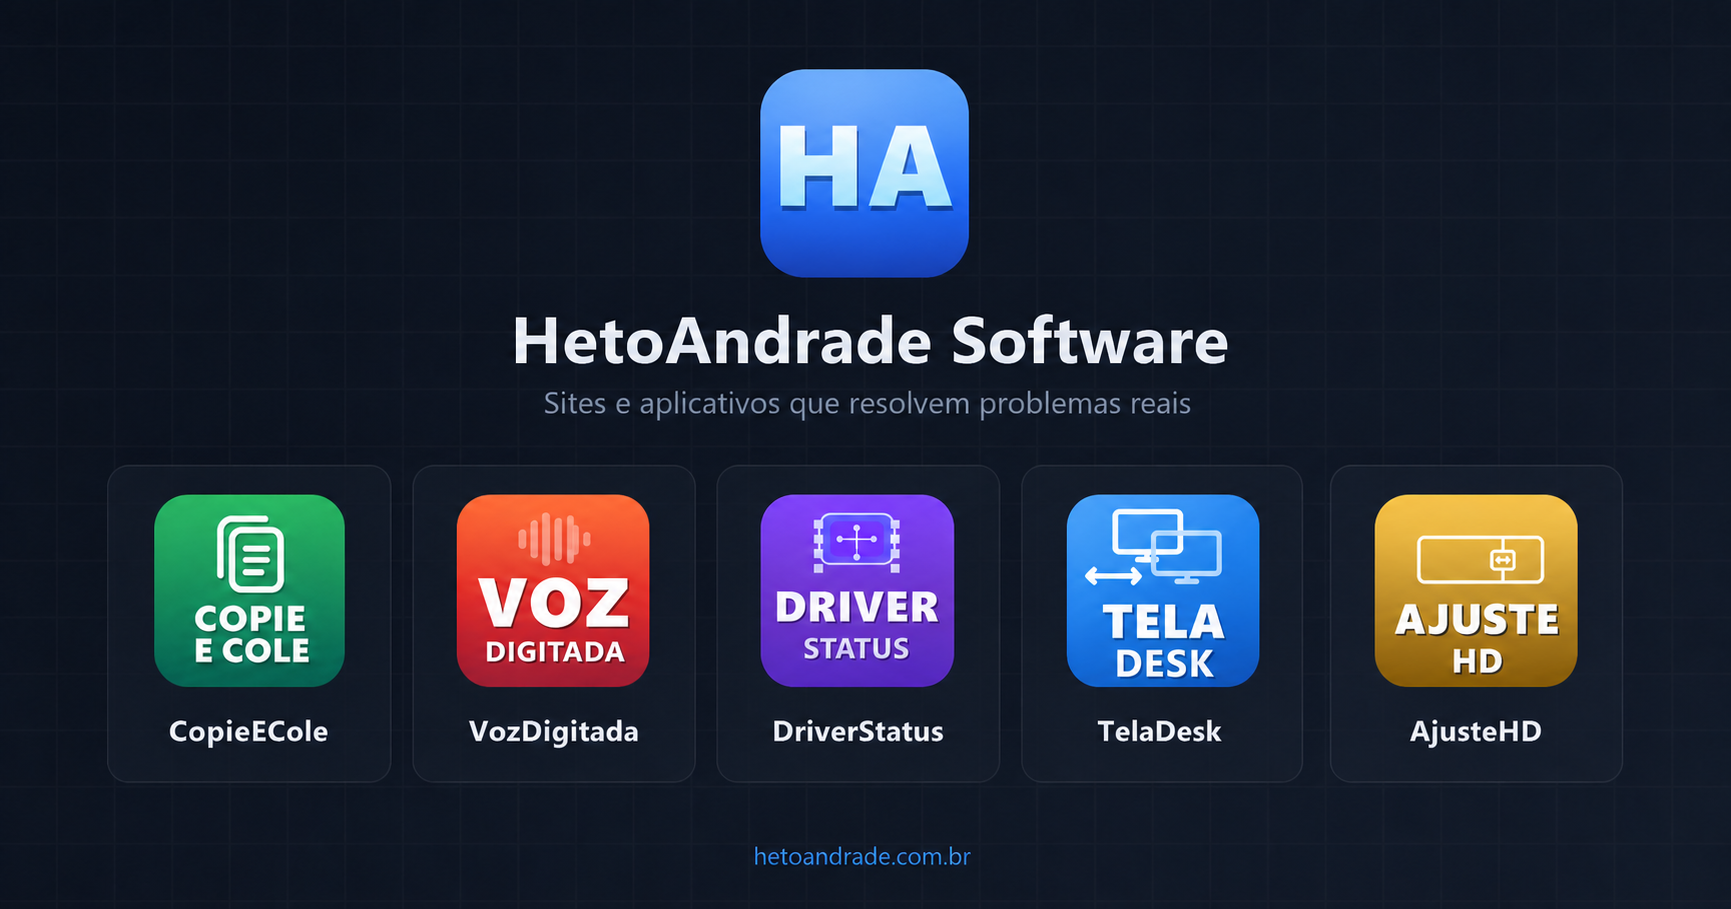
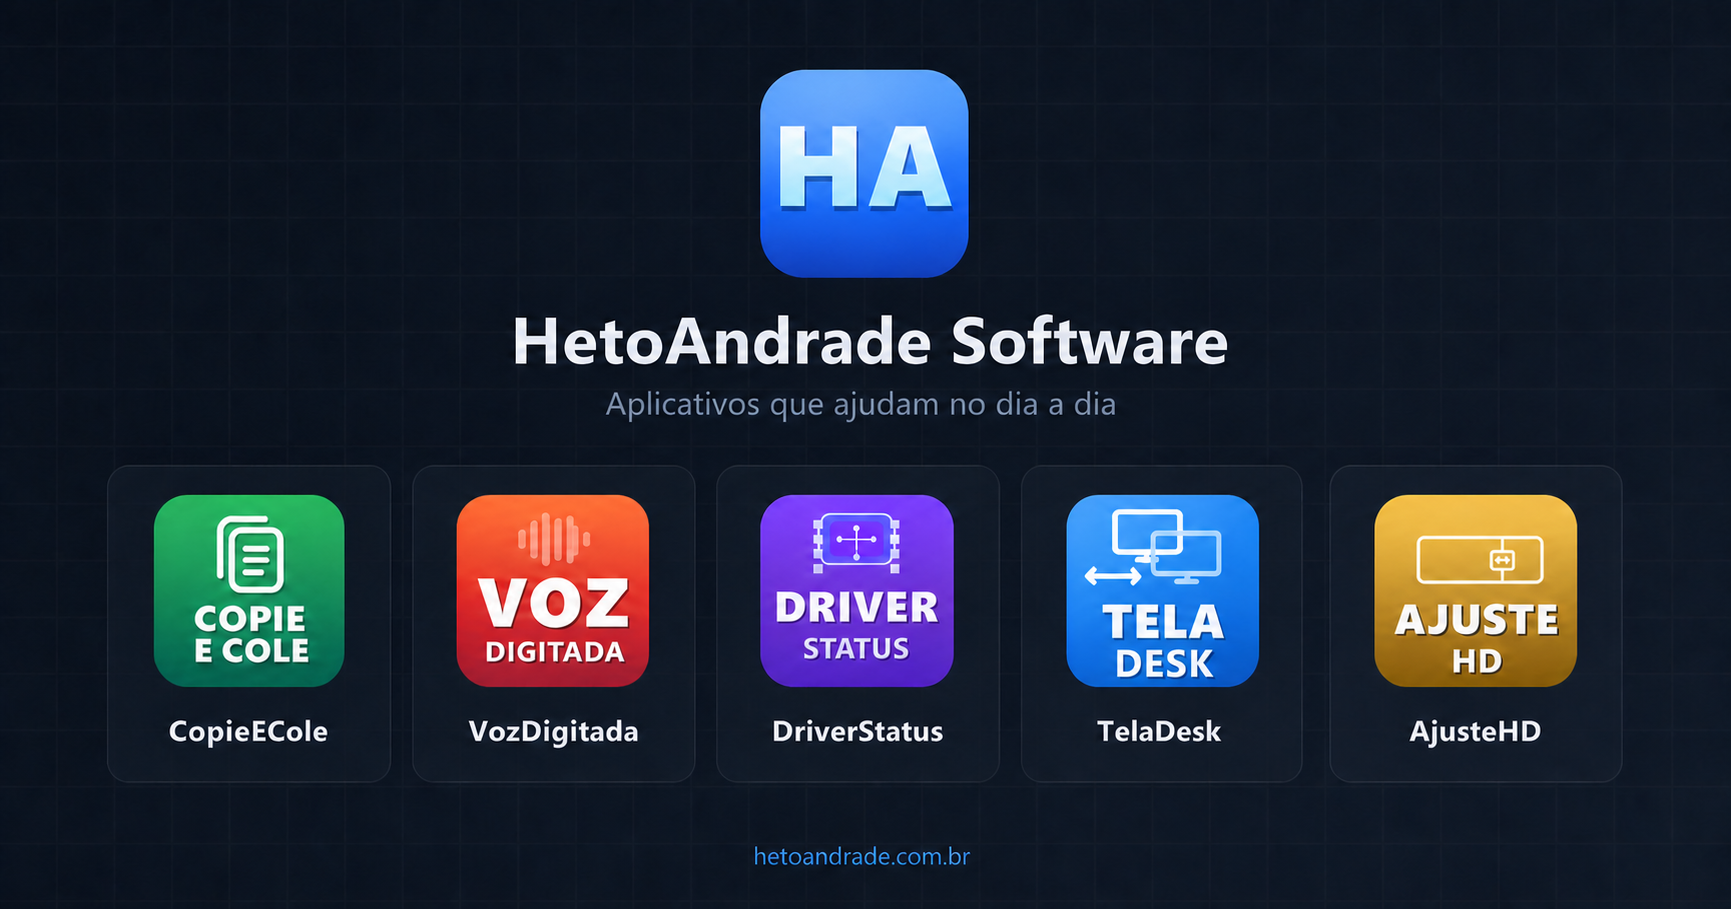
Seguranca: endurecer site estatico

diff --git a/index.html b/index.html
@@ -7,8 +7,8 @@
 <meta name="referrer" content="no-referrer">
 
 <!-- SEO -->
-<title>HetoAndrade Software — Sites e aplicativos que resolvem problemas reais</title>
-<meta name="description" content="Conheça os sites e aplicativos gratuitos da HetoAndrade Software, criados para resolver problemas reais do dia a dia.">
+<title>HetoAndrade Software — Aplicativos que ajudam no dia a dia</title>
+<meta name="description" content="Conheça os aplicativos gratuitos da HetoAndrade Software, criados para ajudar no dia a dia.">
 <meta name="keywords" content="CopieECole, site CopieECole, copiar entre dispositivos, compartilhar arquivos entre dispositivos, compartilhar textos, navegador, voz digitada, VozDigitada, digitar com a voz, reconhecimento de voz, voz para texto, speech to text, ditado por voz, DriverStatus, driver status, diagnóstico drivers, atualizar drivers, drivers windows, backup drivers, windows update drivers, TelaDesk, acesso remoto, alternativa ao AnyDesk, AjusteHD, gerenciador de partições, comunicação entre dispositivos, HetoAndrade, software gratuito, aplicativo gratuito windows, download grátis, Windows 10, Windows 11, enter automatico, comando de voz, microfone sempre ligado">
 <meta name="author" content="HetoAndrade Software">
 <meta name="robots" content="index, follow">
@@ -16,8 +16,8 @@
 
 <!-- Open Graph -->
 <meta property="og:type" content="website">
-<meta property="og:title" content="HetoAndrade Software — Sites e aplicativos úteis">
-<meta property="og:description" content="Conheça os sites e aplicativos gratuitos da HetoAndrade Software, criados para resolver problemas reais do dia a dia.">
+<meta property="og:title" content="HetoAndrade Software — Aplicativos que ajudam no dia a dia">
+<meta property="og:description" content="Conheça os aplicativos gratuitos da HetoAndrade Software, criados para ajudar no dia a dia.">
 <meta property="og:url" content="https://hetoandrade.com.br/">
 <meta property="og:site_name" content="HetoAndrade Software">
 <meta property="og:locale" content="pt_BR">
@@ -27,8 +27,8 @@
 
 <!-- Twitter Card -->
 <meta name="twitter:card" content="summary_large_image">
-<meta name="twitter:title" content="HetoAndrade Software — Sites e aplicativos úteis">
-<meta name="twitter:description" content="Conheça os sites e aplicativos gratuitos da HetoAndrade Software, criados para resolver problemas reais do dia a dia.">
+<meta name="twitter:title" content="HetoAndrade Software — Aplicativos que ajudam no dia a dia">
+<meta name="twitter:description" content="Conheça os aplicativos gratuitos da HetoAndrade Software, criados para ajudar no dia a dia.">
 <meta name="twitter:image" content="https://hetoandrade.com.br/img/og-site.png">
 
 <!-- Schema.org JSON-LD -->
@@ -39,7 +39,7 @@
   "name": "HetoAndrade Software",
   "url": "https://hetoandrade.com.br/",
   "logo": "https://hetoandrade.com.br/Imagems/ha_icon_v4.png",
-  "description": "Sites e aplicativos gratuitos que resolvem problemas reais do dia a dia.",
+  "description": "Aplicativos gratuitos que ajudam no dia a dia.",
   "founder": {
     "@type": "Person",
     "name": "HetoAndrade"
@@ -205,7 +205,7 @@
           para seus dispositivos.
         </h1>
         <p>
-          Sites e aplicativos gratuitos que resolvem problemas reais do dia a dia.
+          Aplicativos gratuitos que ajudam no dia a dia.
           O CopieECole j&#225; est&#225; dispon&#237;vel; TelaDesk e AjusteHD est&#227;o em desenvolvimento.
         </p>
       </section>
@@ -1315,7 +1315,7 @@
 
 
   <footer class="site-footer">
-    <div>&copy; 2026 HetoAndrade Software &mdash; Sites e aplicativos que resolvem problemas reais</div>
+    <div>&copy; 2026 HetoAndrade Software &mdash; Aplicativos que ajudam no dia a dia</div>
     <div class="footer-counters"><span id="footer-count-voz">0.000.000</span> &middot; <span id="footer-count-driver">0.000.000</span></div>
   </footer>
 
